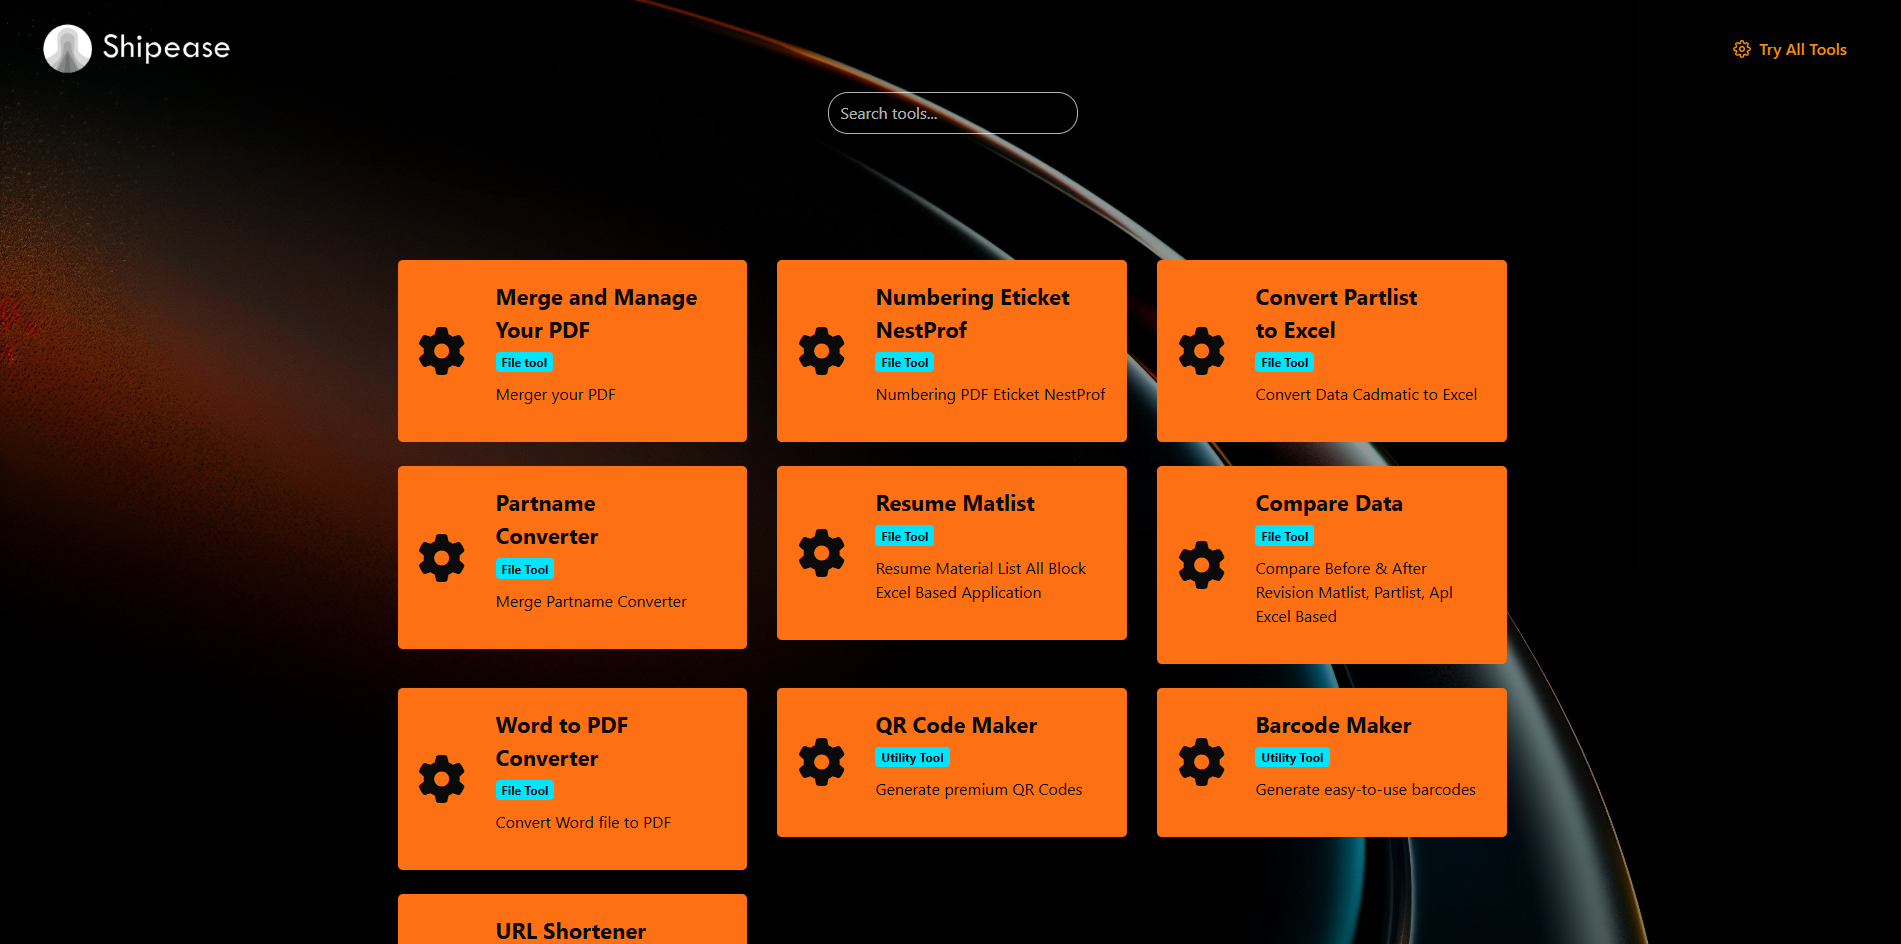
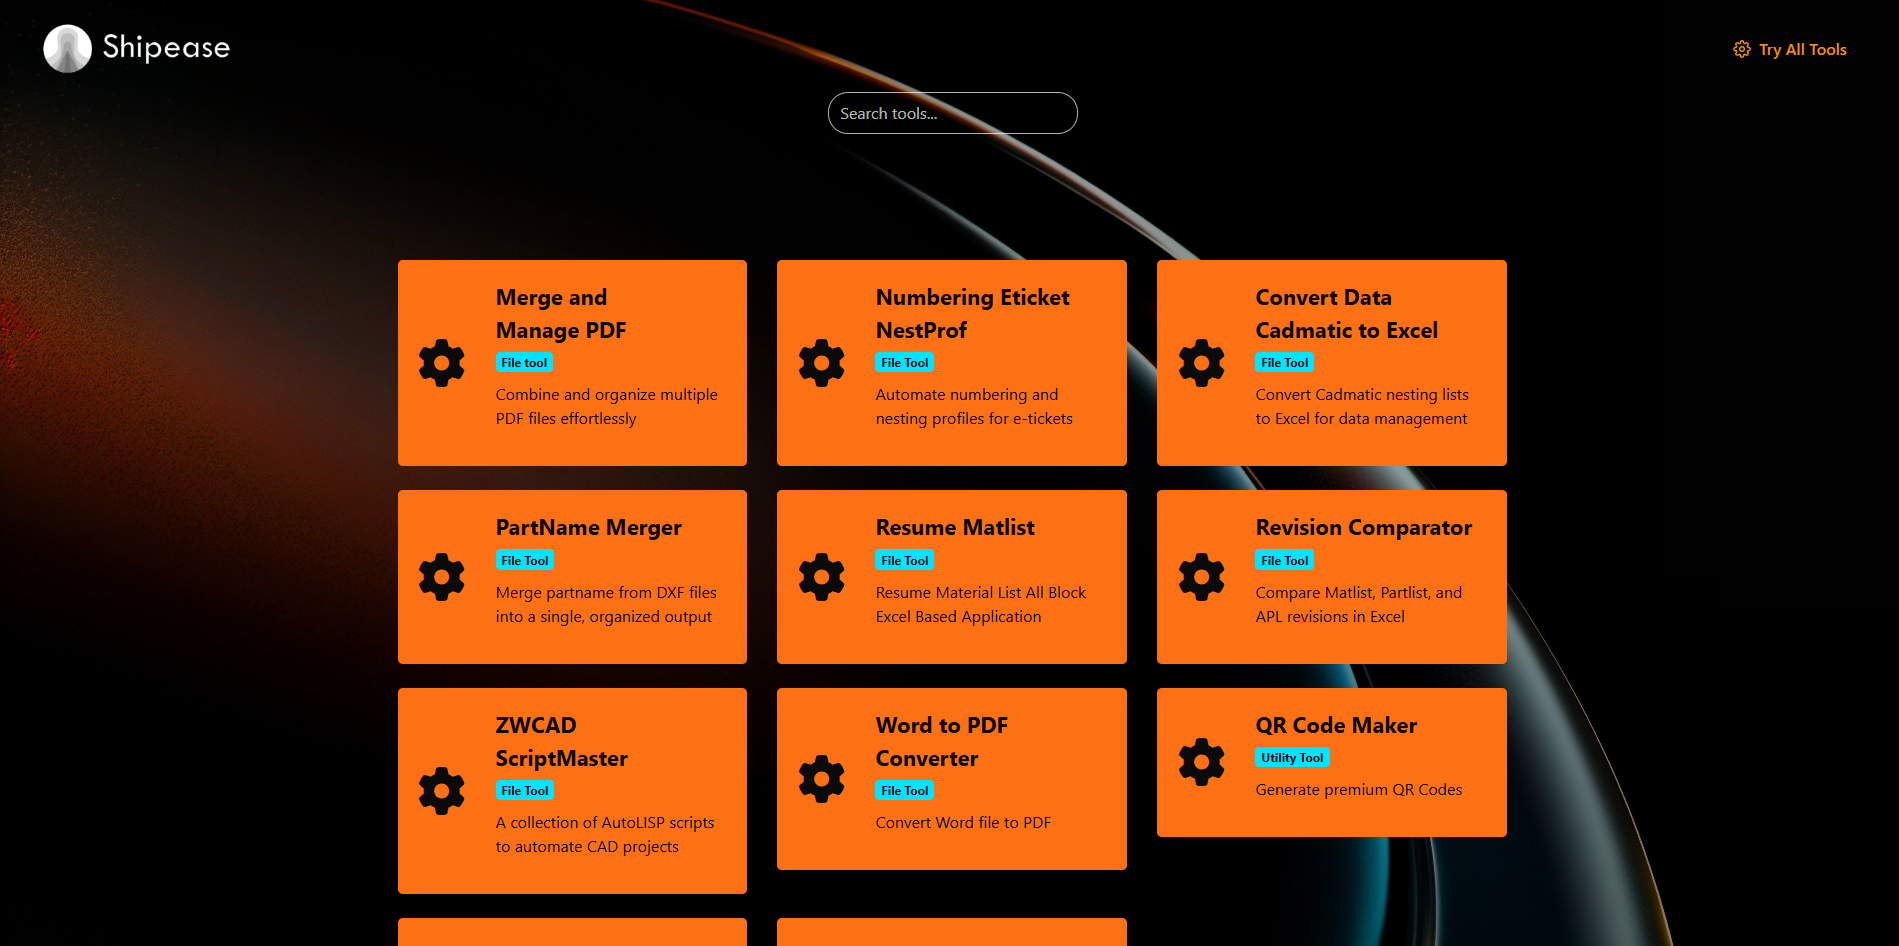
4/5/25

diff --git a/resources/views/autolisp-download.blade.php b/resources/views/autolisp-download.blade.php
@@ -1,5 +1,5 @@
 @extends('layouts.app')
-<title>Download Compare Data Excel</title>
+<title>Download AutoLISP Tools for ZWCAD</title>
 
 @section('content')
 <style>
@@ -43,6 +43,9 @@
     .alert {
         margin-top: 10px;
     }
+    .file-list {
+        margin-top: 20px;
+    }
 </style>
 
 <div class="container">
@@ -51,26 +54,46 @@
             <div class="guideline-box">
                 <h4 class="guideline-title text-center">Steps to Follow</h4>
                 <ul class="list-unstyled">
-                    <li class="guideline-step"><span style="font-weight: bolder">1.</span> Click the download button</li>
-                    <li class="guideline-step"><span style="font-weight: bolder">2.</span> Save the <b>.xls</b> file</li>
-                    <li class="guideline-step"><span style="font-weight: bolder">3.</span> Open with Excel to use</li>
+                    <li class="guideline-step"><span style="font-weight: bolder">1.</span> Select an AutoLISP tool</li>
+                    <li class="guideline-step"><span style="font-weight: bolder">2.</span> Click the download button</li>
+                    <li class="guideline-step"><span style="font-weight: bolder">3.</span> Load in ZWCAD using APPLOAD</li>
                 </ul>
             </div>
         </div>
 
         <div class="col-md-9">
             <div class="form-container">
-                <h3>Compare changes in Matlist, Partlist, and APL revisions directly in Excel</h3>
+                <h3>Download AutoLISP Tools for ZWCAD</h3>
                 
-                <p>Click the button below to download the Compare Data Excel application :</p>
+                <p>Select and download AutoLISP tools from the list below:</p>
                 
-                <a href="{{ route('compare.download') }}" 
-                   class="btn btn-primary" 
-                   id="download-btn">
-                    <i class="fas fa-download"></i> Download file
-                </a>
+                <form action="{{ route('autolisp.download') }}" method="POST" id="download-form">
+                    @csrf
+                    <div class="file-list">
+                        @foreach($files as $filename => $description)
+                            <div class="mb-3">
+                                <label>
+                                    <input type="radio" name="filename" value="{{ $filename }}" required>
+                                    {{ $description }} ({{ $filename }})
+                                </label>
+                            </div>
+                        @endforeach
+                    </div>
 
-                <div id="result" class="mt-3"></div>
+                    <button type="submit" 
+                           class="btn btn-primary" 
+                           id="download-btn">
+                        <i class="fas fa-download"></i> Download Selected Tool
+                    </button>
+
+                    @if(session('error'))
+                        <div class="alert alert-danger mt-3">
+                            {{ session('error') }}
+                        </div>
+                    @endif
+
+                    <div id="result" class="mt-3"></div>
+                </form>
             </div>
         </div>
     </div>
@@ -80,8 +103,9 @@
     document.addEventListener('DOMContentLoaded', () => {
         const downloadBtn = document.getElementById('download-btn');
         const resultDiv = document.getElementById('result');
+        const form = document.getElementById('download-form');
 
-        downloadBtn.addEventListener('click', async (e) => {
+        form.addEventListener('submit', async (e) => {
             e.preventDefault();
             
             if (downloadBtn.disabled) return;
@@ -94,7 +118,7 @@
                 // Simulasi proses download
                 await new Promise(resolve => setTimeout(resolve, 500));
                 
-                window.location.href = downloadBtn.href;
+                form.submit();
                 
                 await new Promise(resolve => setTimeout(resolve, 500));
                 resultDiv.innerHTML = '<div class="alert alert-success">File downloaded successfully!</div>';
@@ -102,7 +126,7 @@
                 resultDiv.innerHTML = `<div class="alert alert-danger">Error: ${error.message}</div>`;
             } finally {
                 downloadBtn.disabled = false;
-                downloadBtn.innerHTML = '<i class="fas fa-download"></i> Download CEK MATLIST.xls';
+                downloadBtn.innerHTML = '<i class="fas fa-download"></i> Download Selected Tool';
             }
         });
     });

diff --git a/resources/views/all.blade.php b/resources/views/all.blade.php
@@ -79,9 +79,9 @@
                                     <i class="fa-solid fa-3x fa-gear"></i>
                                 </div>
                                 <div class="col">
-                                    <h4>Merge and Manage <br>Your PDF</h4>
+                                    <h4>Merge and <br>Manage  PDF</h4>
                                     <span class="badge badge-info">File tool</span>
-                                    <p>Merger your PDF</p>
+                                    <p>Combine and organize multiple PDF files effortlessly</p>
                                 </div>
                             </div>
                         </div>
@@ -99,7 +99,7 @@
                                 <div class="col">
                                     <h4>Numbering Eticket NestProf</h4>
                                     <span class="badge badge-info">File Tool</span>
-                                    <p>Numbering PDF Eticket NestProf</p>
+                                    <p>Automate numbering and nesting profiles for e-tickets</p>
                                 </div>
                             </div>
                         </div>
@@ -115,9 +115,9 @@
                                     <i class="fa-solid fa-3x fa-gear"></i>
                                 </div>
                                 <div class="col">
-                                    <h4>Convert Partlist <br>to Excel</h4>
+                                    <h4>Convert Data <br>Cadmatic to Excel</h4>
                                     <span class="badge badge-info">File Tool</span>
-                                    <p>Convert Data Cadmatic to Excel</p>
+                                    <p>Convert Cadmatic nesting lists to Excel for data management</p>
                                 </div>
                             </div>
                         </div>
@@ -133,9 +133,9 @@
                                     <i class="fa-solid fa-3x fa-gear"></i>
                                 </div>
                                 <div class="col">
-                                    <h4>Partname <br>Converter</h4>
+                                    <h4>PartName Merger<br></h4>
                                     <span class="badge badge-info">File Tool</span>
-                                    <p>Merge Partname Converter </p>
+                                    <p>Merge partname from DXF files into a single, organized output</p>
                                 </div>
                             </div>
                         </div>
@@ -169,9 +169,27 @@
                                     <i class="fa-solid fa-3x fa-gear"></i>
                                 </div>
                                 <div class="col">
-                                    <h4>Compare Data<br></h4>
+                                    <h4>Revision Comparator<br></h4>
                                     <span class="badge badge-info">File Tool</span>
-                                    <p>Compare Before & After Revision Matlist, Partlist, Apl Excel Based</p>
+                                    <p>Compare Matlist, Partlist, and APL revisions in Excel</p>
+                                </div>
+                            </div>
+                        </div>
+                    </div>
+                </a>
+            </div>
+            <div class="col-md-6 col-lg-4 mb-4">
+                <a href="{{ url('/autolisp-download') }}" class="card-link">
+                    <div class="card">
+                        <div class="card-body">
+                            <div class="row align-items-center">
+                                <div class="col-auto">
+                                    <i class="fa-solid fa-3x fa-gear"></i>
+                                </div>
+                                <div class="col">
+                                    <h4>ZWCAD<br>ScriptMaster</h4>
+                                    <span class="badge badge-info">File Tool</span>
+                                    <p>A collection of AutoLISP scripts to automate CAD projects</p>
                                 </div>
                             </div>
                         </div>

diff --git a/app/Http/Controllers/AutolispDownloadController.php b/app/Http/Controllers/AutolispDownloadController.php
@@ -1,0 +1,37 @@
+<?php
+
+namespace App\Http\Controllers;
+
+use Illuminate\Http\Request;
+
+class AutolispDownloadController extends Controller
+{
+    public function show()
+    {
+        // Daftar file AutoLISP yang tersedia
+        $files = [
+            'drawline.lsp' => 'Draw Line Tool',
+            'areacalc.lsp' => 'Area Calculator',
+            'blockcount.lsp' => 'Block Counter',
+            // Tambahkan file AutoLISP lainnya sesuai kebutuhan
+        ];
+        
+        return view('autolisp-download', compact('files'));
+    }
+
+    public function downloadAutolisp(Request $request)
+    {
+        $filename = $request->input('filename');
+        $filePath = public_path('files/autolisp/' . $filename);
+        
+        if (!file_exists($filePath)) {
+            return redirect()->back()->with('error', 'File tidak ditemukan!');
+        }
+
+        return response()->download(
+            $filePath,
+            $filename,
+            ['Content-Type' => 'application/x-lisp']
+        );
+    }
+}

diff --git a/routes/web.php b/routes/web.php
@@ -14,6 +14,7 @@ use App\Http\Controllers\PartlistConverterController;
 use App\Http\Controllers\PartnameConverterController;
 use App\Http\Controllers\ResumeDownloadController;
 use App\Http\Controllers\CompareDownloadController;
+use App\Http\Controllers\AutolispDownloadController;
 
 
 //Home
@@ -50,6 +51,10 @@ Route::get('/download/resume', [ResumeDownloadController::class, 'downloadResume
 
 Route::get('/compare-download', [CompareDownloadController::class, 'show'])->name('compare.page');
 Route::get('/compare-download/file', [CompareDownloadController::class, 'downloadCompare'])->name('compare.download');
+
+Route::get('/autolisp-download', [AutolispDownloadController::class, 'show'])->name('autolisp.show');
+Route::post('/autolisp-download', [AutolispDownloadController::class, 'downloadAutolisp'])->name('autolisp.download');
+
 //AI module
 Route::get('/text', function () {
     return view('AI.text');

diff --git a/resources/views/Multimedia/partnameConverter.blade.php b/resources/views/Multimedia/partnameConverter.blade.php
@@ -111,7 +111,7 @@
 
         <div class="col-md-9">
             <div class="form-container">
-                <h3>Convert Partname in DXF</h3>
+                <h3>PartName Merger ZWCAD for files DXF</h3>
                 <form id="convert-form" action="{{ route('partnameConverter.process') }}" method="POST" enctype="multipart/form-data">
                     @csrf
 
